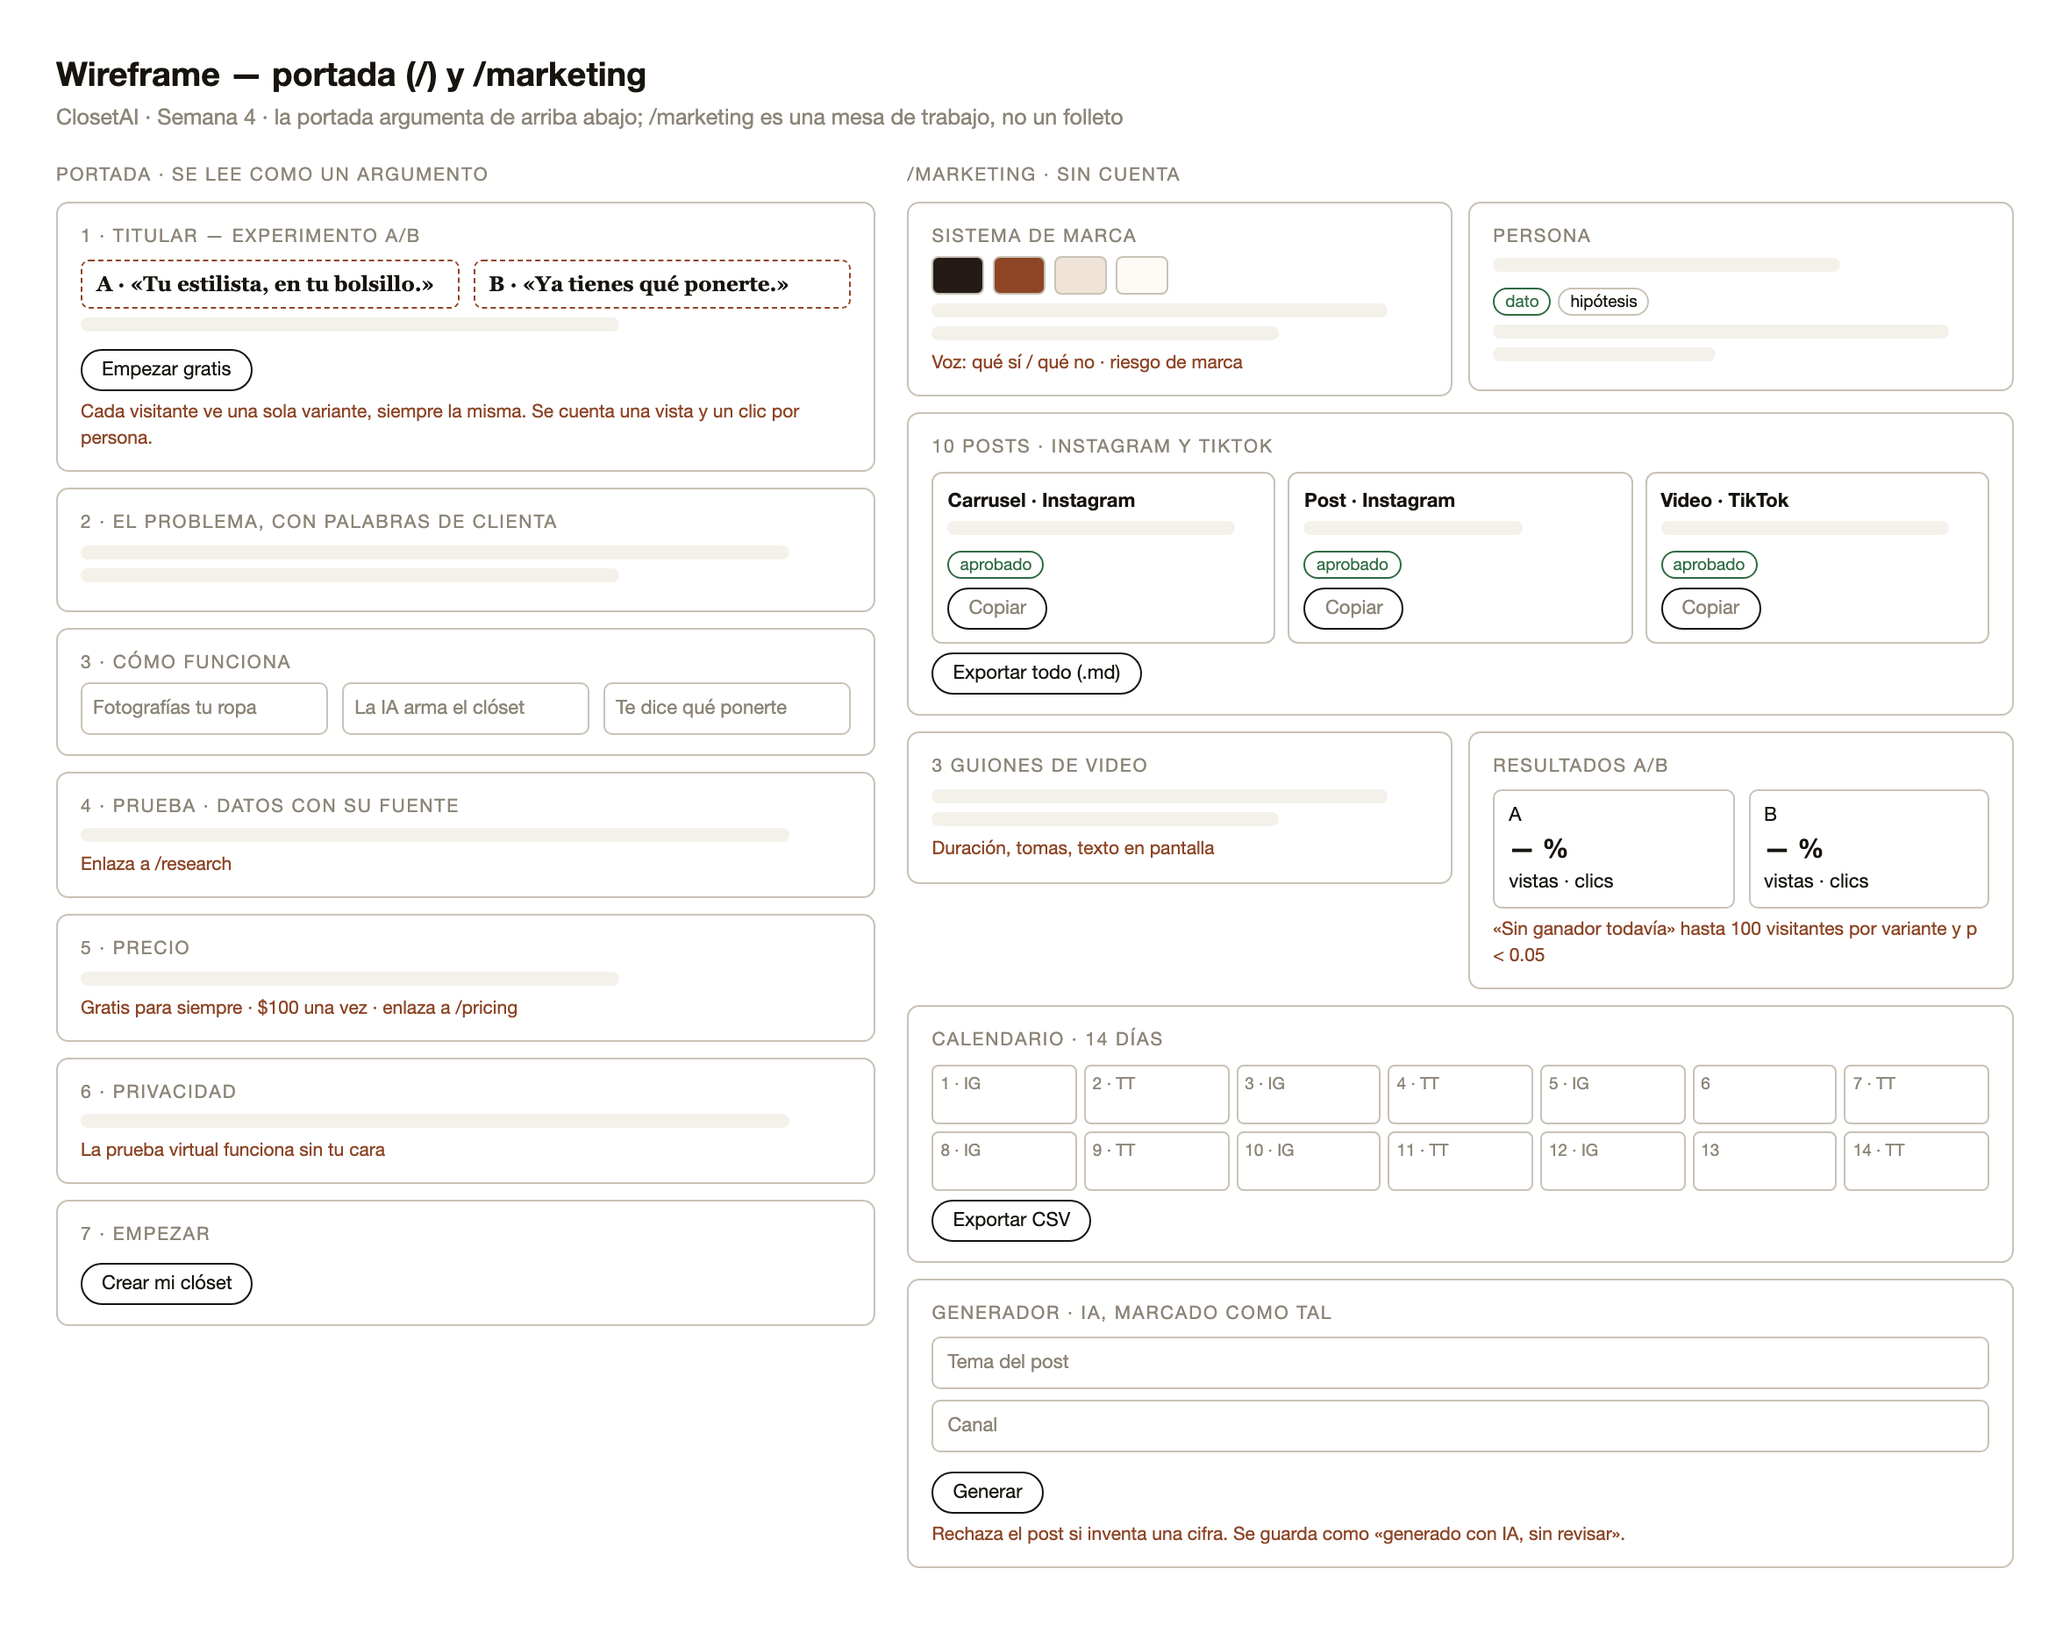
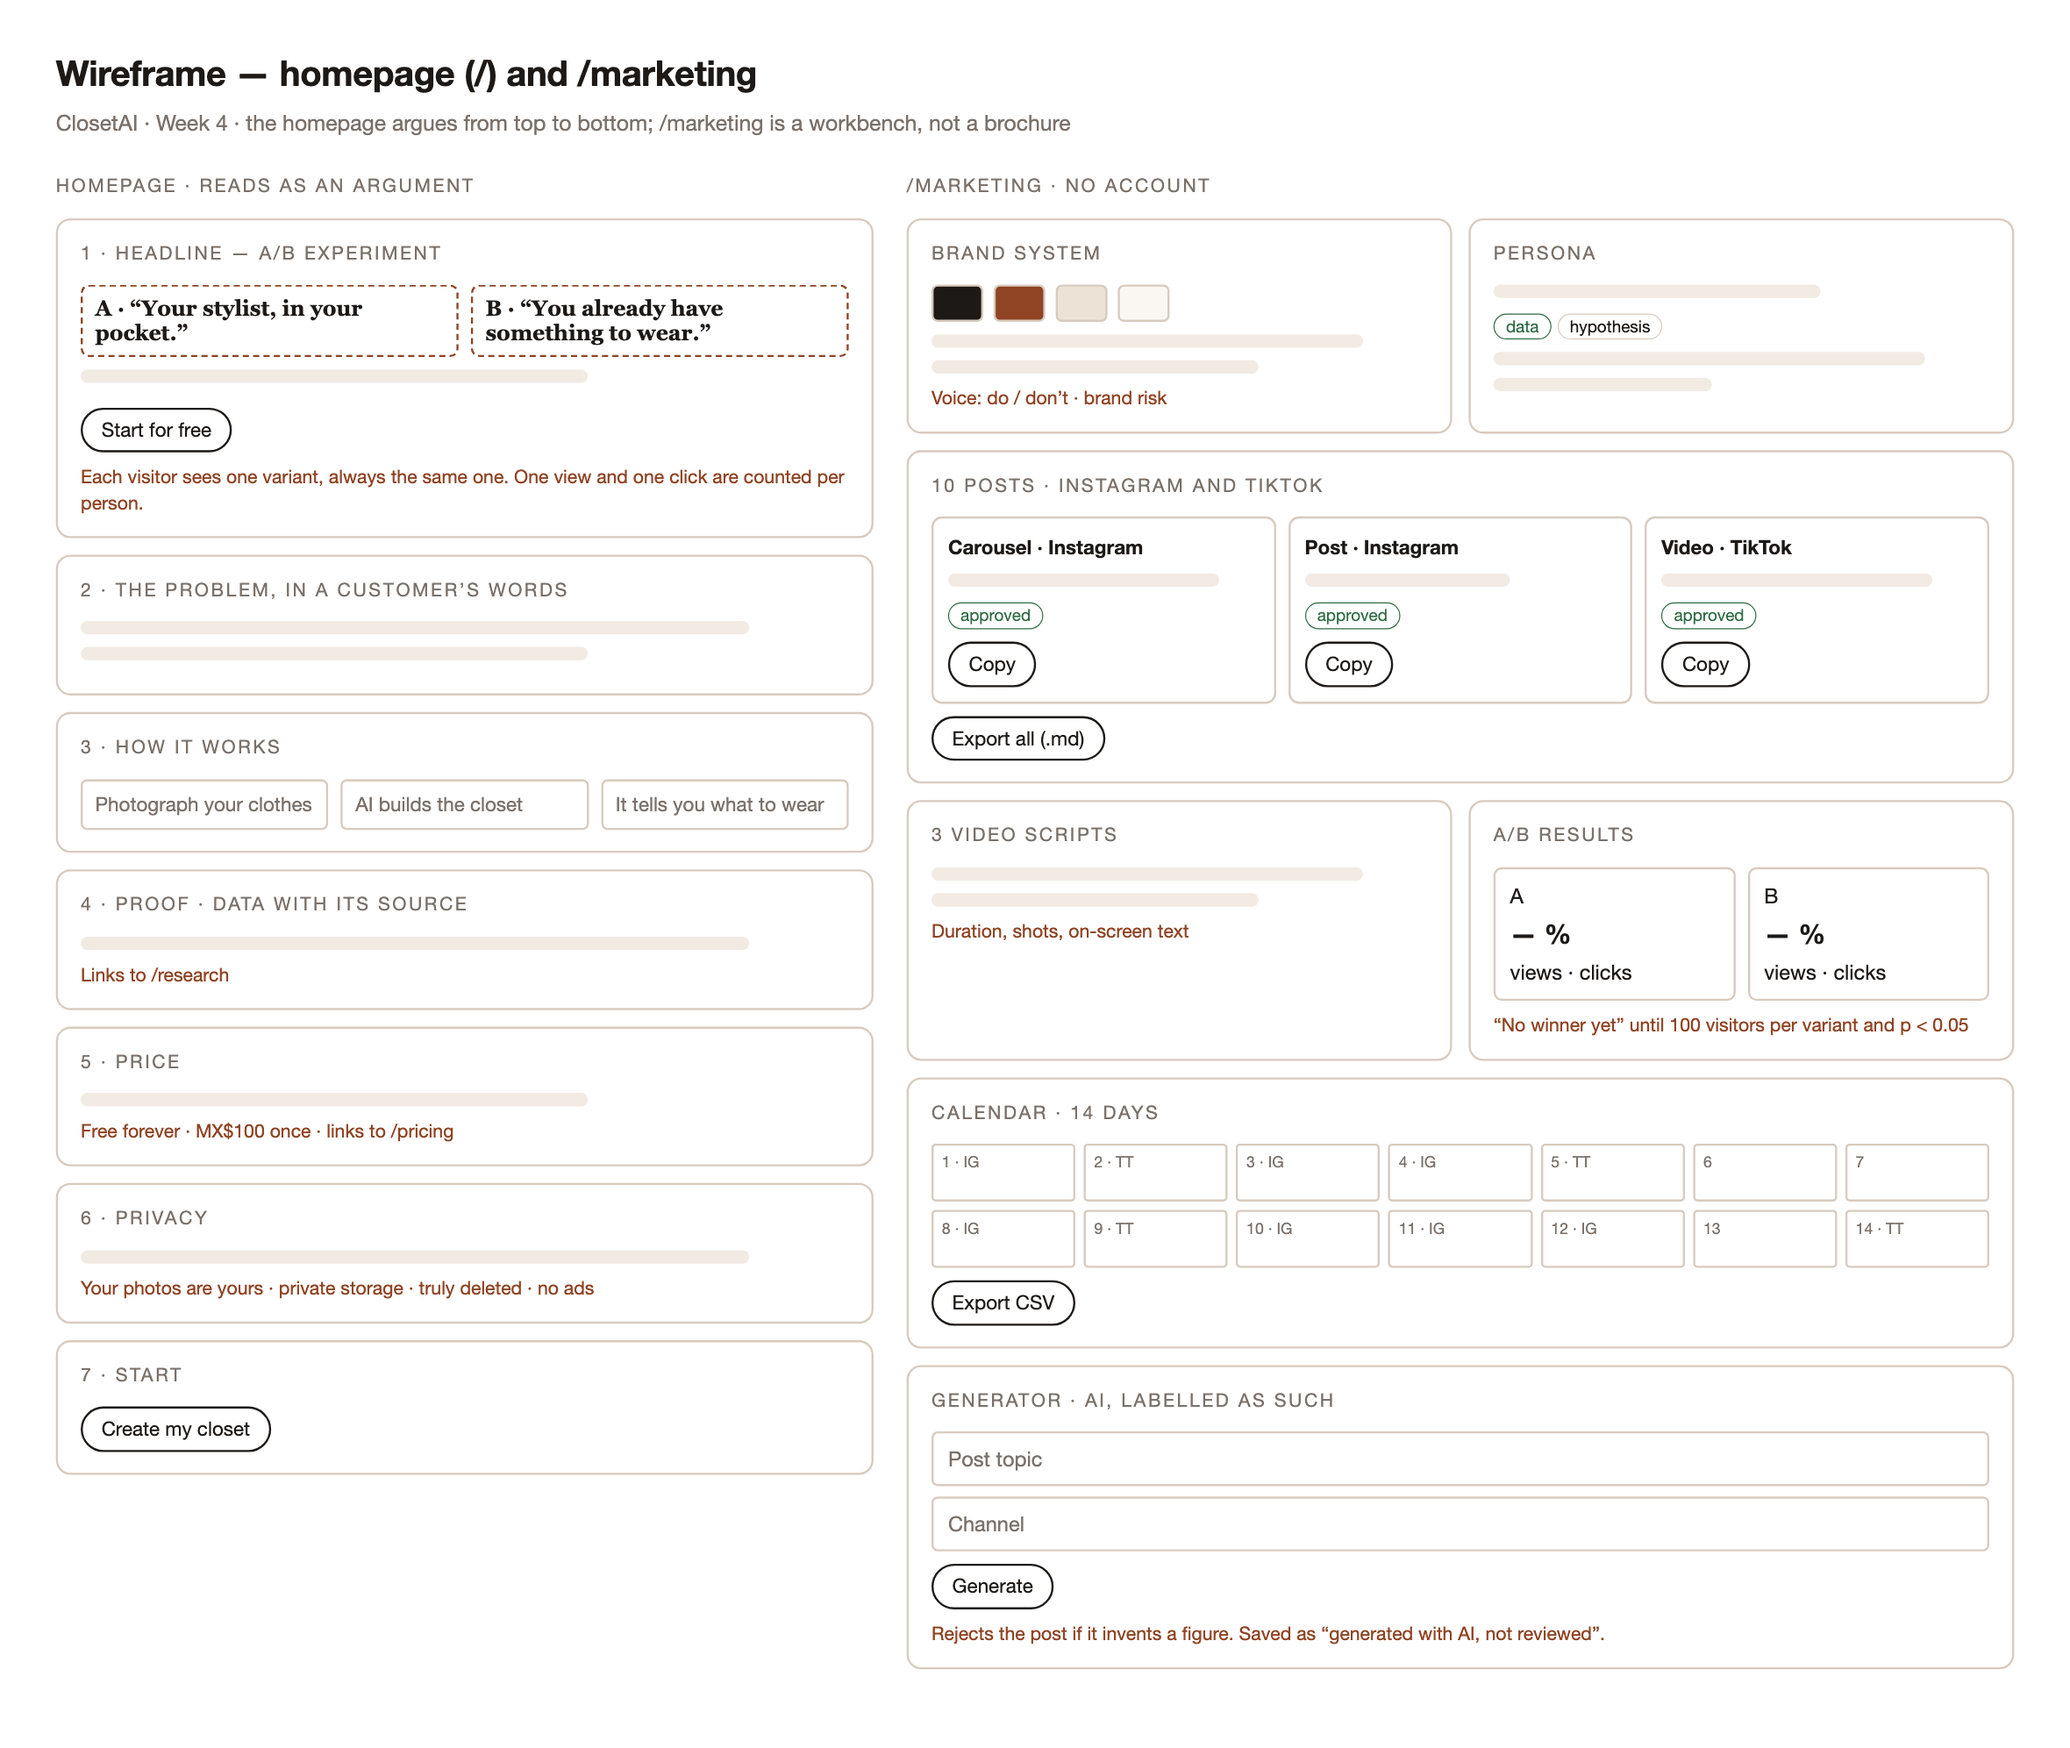
docs(week 4): wireframe redrawn in English, with its HTML source
The original had no source file, so it is rebuilt as HTML and rendered with
Playwright. The privacy annotation now states what shipped instead of the
try-on-without-a-face promise that was withdrawn before launch.

Changed region(s): [[0.0309, 0.031, 0.9589, 0.9615], [0.7114, 0.1241, 0.8661, 0.2481], [0.7733, 0.2791, 0.928, 0.4032]]

diff --git a/docs/evidencia/mockups/10-marketing-wireframe.html b/docs/evidencia/mockups/10-marketing-wireframe.html
@@ -1,0 +1,121 @@
+<!doctype html>
+<html lang="en">
+<head>
+<meta charset="utf-8">
+<title>Wireframe — homepage and /marketing</title>
+<!--
+  Source of 10-marketing-wireframe.png. The original (Oct 21, 2026) was drawn in Spanish;
+  this English version replaced it on Oct 26, 2026, when the course required English.
+  One annotation differs: the privacy block said "virtual try-on works without your face",
+  a promise withdrawn before launch because it was never tested (see ITERATION_LOG, Oct 21).
+  It now says what shipped. Render: node docs/evidencia/mockups/render-wireframe.mjs
+-->
+<style>
+  :root { --ink:#1d1916; --clay:#8f4424; --sand:#ece2d6; --bone:#faf7f3; --line:#d7cbbf; --muted:#7a716a; --ok:#2f6b43; }
+  * { box-sizing:border-box; margin:0; }
+  body { width:2000px; padding:48px 54px 60px; font:20px/1.35 -apple-system, "Helvetica Neue", Arial, sans-serif; color:var(--ink); background:#fff; }
+  h1 { font-size:34px; font-weight:700; letter-spacing:-.01em; }
+  .sub { color:var(--muted); font-size:21px; margin-top:10px; }
+  .cols { display:grid; grid-template-columns:790px 1fr; gap:32px; margin-top:36px; }
+  .label { font-size:18px; letter-spacing:.12em; text-transform:uppercase; color:var(--muted); margin-bottom:18px; }
+  .box { border:2px solid var(--line); border-radius:14px; padding:20px 22px; margin-bottom:16px; }
+  .bar { height:13px; border-radius:7px; background:#f1ebe4; margin:12px 0; }
+  .w60{width:66%}.w85{width:87%}.w40{width:44%}
+  .note { color:var(--clay); font-size:18px; margin-top:12px; }
+  .btn { display:inline-block; border:2px solid var(--ink); border-radius:999px; padding:7px 18px; font-size:19px; margin-top:12px; }
+  .row { display:flex; gap:12px; margin-top:10px; }
+  .variant { flex:1; border:2px dashed var(--clay); border-radius:8px; padding:9px 12px; font:700 21px Georgia, serif; }
+  .step { flex:1; border:2px solid var(--line); border-radius:6px; padding:10px 12px; color:var(--muted); font-size:19px; }
+  .grid2 { display:grid; grid-template-columns:1fr 1fr; gap:16px; }
+  .sw { width:50px; height:36px; border-radius:6px; border:2px solid var(--line); }
+  .tag { display:inline-block; border:1.5px solid var(--line); border-radius:999px; padding:1px 11px; font-size:16px; margin-right:6px; }
+  .tag.ok { border-color:var(--ok); color:var(--ok); }
+  .card { flex:1; border:2px solid var(--line); border-radius:10px; padding:14px; }
+  .card b { font-size:19px; }
+  .ab { flex:1; border:2px solid var(--line); border-radius:8px; padding:12px 14px; }
+  .ab .pct { font-size:26px; font-weight:700; margin:6px 0; }
+  .cal { display:grid; grid-template-columns:repeat(7,1fr); gap:8px; }
+  .cal div { border:2px solid var(--line); border-radius:4px; height:56px; padding:6px 8px; font-size:15px; color:var(--muted); }
+  .field { border:2px solid var(--line); border-radius:6px; padding:11px 14px; color:var(--muted); margin-top:10px; }
+</style>
+</head>
+<body>
+  <h1>Wireframe — homepage (/) and /marketing</h1>
+  <p class="sub">ClosetAI · Week 4 · the homepage argues from top to bottom; /marketing is a workbench, not a brochure</p>
+
+  <div class="cols">
+    <div>
+      <p class="label">Homepage · reads as an argument</p>
+      <div class="box">
+        <p class="label">1 · Headline — A/B experiment</p>
+        <div class="row">
+          <div class="variant">A · “Your stylist, in your pocket.”</div>
+          <div class="variant">B · “You already have something to wear.”</div>
+        </div>
+        <div class="bar w60"></div>
+        <span class="btn">Start for free</span>
+        <p class="note">Each visitor sees one variant, always the same one. One view and one click are counted per person.</p>
+      </div>
+      <div class="box"><p class="label">2 · The problem, in a customer’s words</p><div class="bar w85"></div><div class="bar w60"></div></div>
+      <div class="box">
+        <p class="label">3 · How it works</p>
+        <div class="row"><div class="step">Photograph your clothes</div><div class="step">AI builds the closet</div><div class="step">It tells you what to wear</div></div>
+      </div>
+      <div class="box"><p class="label">4 · Proof · data with its source</p><div class="bar w85"></div><p class="note">Links to /research</p></div>
+      <div class="box"><p class="label">5 · Price</p><div class="bar w60"></div><p class="note">Free forever · MX$100 once · links to /pricing</p></div>
+      <div class="box"><p class="label">6 · Privacy</p><div class="bar w85"></div><p class="note">Your photos are yours · private storage · truly deleted · no ads</p></div>
+      <div class="box"><p class="label">7 · Start</p><span class="btn" style="margin-top:0">Create my closet</span></div>
+    </div>
+
+    <div>
+      <p class="label">/marketing · no account</p>
+      <div class="grid2">
+        <div class="box">
+          <p class="label">Brand system</p>
+          <div class="row" style="gap:10px"><div class="sw" style="background:var(--ink)"></div><div class="sw" style="background:var(--clay)"></div><div class="sw" style="background:var(--sand)"></div><div class="sw" style="background:var(--bone)"></div></div>
+          <div class="bar w85"></div><div class="bar w60"></div>
+          <p class="note">Voice: do / don’t · brand risk</p>
+        </div>
+        <div class="box">
+          <p class="label">Persona</p>
+          <div class="bar w60"></div>
+          <span class="tag ok">data</span><span class="tag">hypothesis</span>
+          <div class="bar w85"></div><div class="bar w40"></div>
+        </div>
+      </div>
+      <div class="box">
+        <p class="label">10 posts · Instagram and TikTok</p>
+        <div class="row">
+          <div class="card"><b>Carousel · Instagram</b><div class="bar w85"></div><span class="tag ok">approved</span><br><span class="btn">Copy</span></div>
+          <div class="card"><b>Post · Instagram</b><div class="bar w60"></div><span class="tag ok">approved</span><br><span class="btn">Copy</span></div>
+          <div class="card"><b>Video · TikTok</b><div class="bar w85"></div><span class="tag ok">approved</span><br><span class="btn">Copy</span></div>
+        </div>
+        <span class="btn">Export all (.md)</span>
+      </div>
+      <div class="grid2">
+        <div class="box"><p class="label">3 video scripts</p><div class="bar w85"></div><div class="bar w60"></div><p class="note">Duration, shots, on-screen text</p></div>
+        <div class="box">
+          <p class="label">A/B results</p>
+          <div class="row"><div class="ab">A<div class="pct">— %</div>views · clicks</div><div class="ab">B<div class="pct">— %</div>views · clicks</div></div>
+          <p class="note">“No winner yet” until 100 visitors per variant and p &lt; 0.05</p>
+        </div>
+      </div>
+      <div class="box">
+        <p class="label">Calendar · 14 days</p>
+        <div class="cal">
+          <div>1 · IG</div><div>2 · TT</div><div>3 · IG</div><div>4 · IG</div><div>5 · TT</div><div>6</div><div>7</div>
+          <div>8 · IG</div><div>9 · TT</div><div>10 · IG</div><div>11 · IG</div><div>12 · IG</div><div>13</div><div>14 · TT</div>
+        </div>
+        <span class="btn">Export CSV</span>
+      </div>
+      <div class="box">
+        <p class="label">Generator · AI, labelled as such</p>
+        <div class="field">Post topic</div>
+        <div class="field">Channel</div>
+        <span class="btn">Generate</span>
+        <p class="note">Rejects the post if it invents a figure. Saved as “generated with AI, not reviewed”.</p>
+      </div>
+    </div>
+  </div>
+</body>
+</html>
